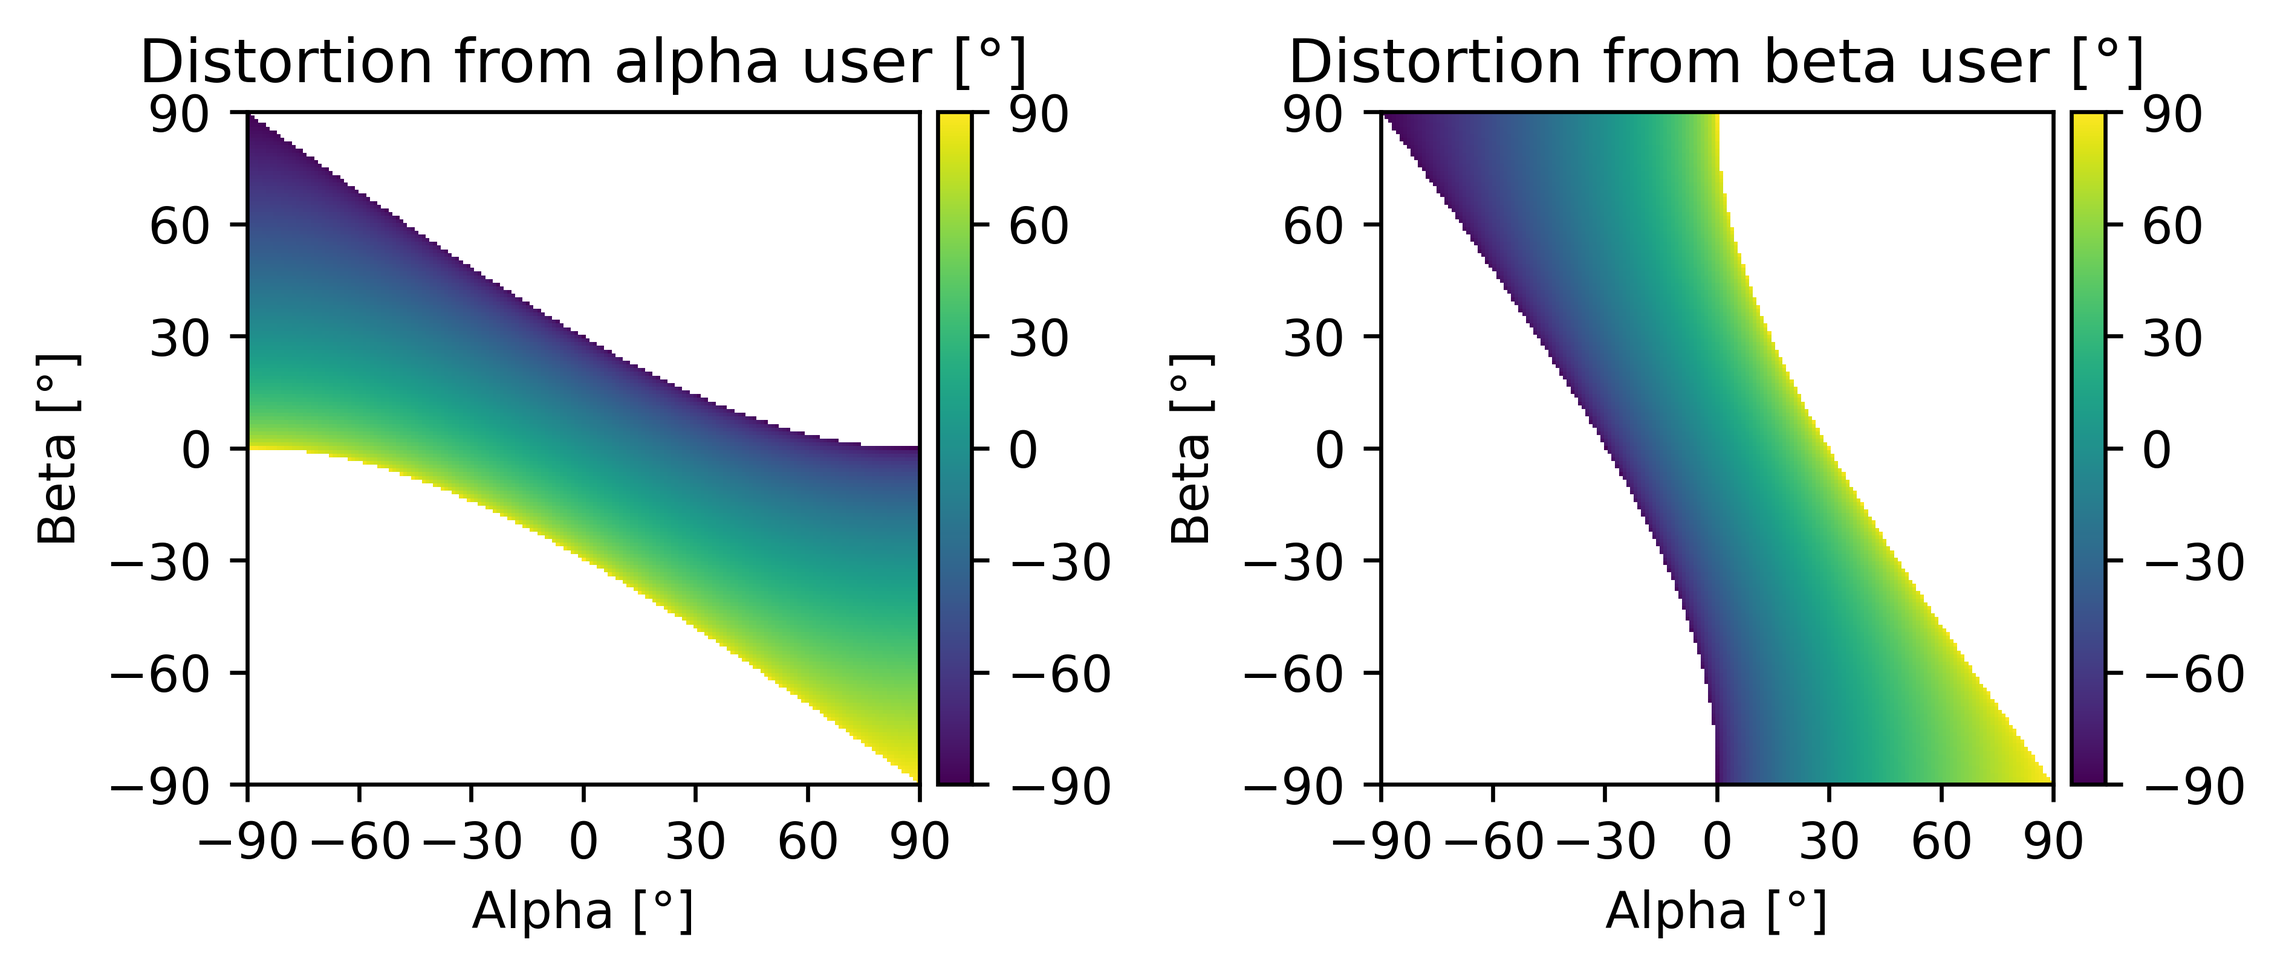
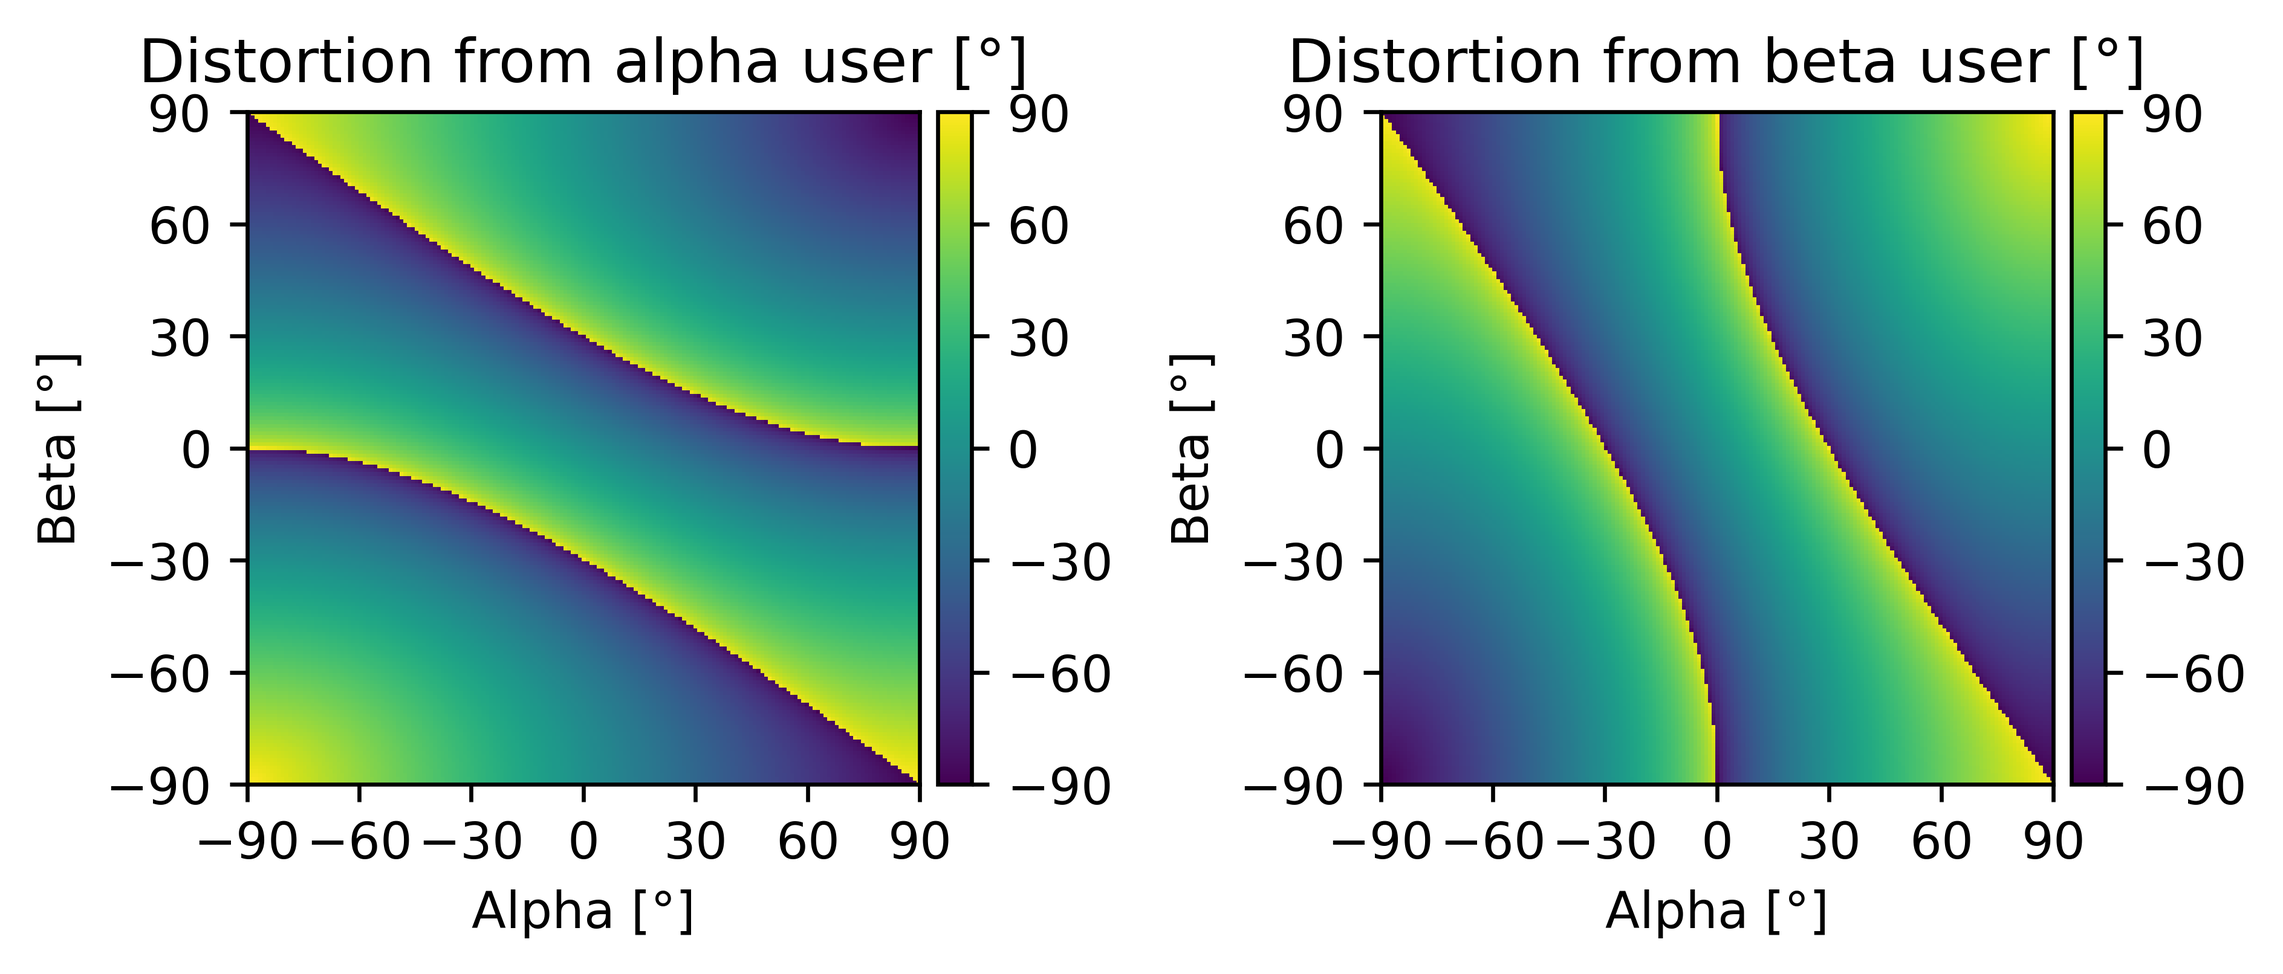
Expanded the distortion angles prediction for values where arcsin is undetermined by periodizing the input values

diff --git a/main_multiuser/main_shared_sc_psd_and_beampatterns.py b/main_multiuser/main_shared_sc_psd_and_beampatterns.py
@@ -9,6 +9,7 @@ sys.path.append(os.getcwd())
 
 import copy
 import time
+import itertools
 from datetime import datetime
 
 import matplotlib.pyplot as plt
@@ -28,11 +29,11 @@ from plot_settings import set_latex_plot_style
 if __name__ == '__main__':
     set_latex_plot_style()
     # Multiple users data
-    usr_angles_deg = np.array([-15, 15])
+    usr_angles_deg = np.array([-60, -90])
     usr_angles_rad = np.deg2rad(usr_angles_deg)
     usr_distances = [300, 300]
     usr_pos_tup = []
-    for usr_idx, usr_angle in enumerate(usr_angles_deg+90):
+    for usr_idx, usr_angle in enumerate(usr_angles_deg + 90):
         usr_pos_x = np.cos(np.deg2rad(usr_angle)) * usr_distances[usr_idx]
         usr_pos_y = np.sin(np.deg2rad(usr_angle)) * usr_distances[usr_idx]
         usr_pos_tup.append((usr_pos_x, usr_pos_y))
@@ -71,7 +72,6 @@ if __name__ == '__main__':
     sdr_n_snapshots = 10
     sdr_reroll_pos = False
 
-
     # Beampatterns
     plot_precoding_beampatterns = True
     beampattern_n_snapshots = 100
@@ -81,9 +81,9 @@ if __name__ == '__main__':
     radian_vals = np.radians(np.linspace(-90, 90, n_points + 1))
 
     # PSD at angle
-    plot_psd = True
+    plot_psd = False
     sel_psd_angle = 51
-    sel_ptx_idx = int(n_points / 180 * (sel_psd_angle+90))
+    sel_ptx_idx = int(n_points / 180 * (sel_psd_angle + 90))
     # PSD plotting params
     psd_nfft = 1024
     n_samp_per_seg = 256
@@ -160,9 +160,11 @@ if __name__ == '__main__':
                         rx_sig_clean_fd = my_tmp_miso_los_chan.propagate(in_sig_mat=clean_ofdm_symbol_fd, sum=False)
 
                         clean_nsc_ofdm_symb_fd = np.concatenate((rx_sig_clean_fd[:, -my_mod.n_sub_carr // 2:],
-                                                                 rx_sig_clean_fd[:, 1:(my_mod.n_sub_carr // 2) + 1]), axis=1)
+                                                                 rx_sig_clean_fd[:, 1:(my_mod.n_sub_carr // 2) + 1]),
+                                                                axis=1)
                         rx_nsc_ofdm_symb_fd = np.concatenate(
-                            (rx_sig_fd[:, -my_mod.n_sub_carr // 2:], rx_sig_fd[:, 1:(my_mod.n_sub_carr // 2) + 1]), axis=1)
+                            (rx_sig_fd[:, -my_mod.n_sub_carr // 2:], rx_sig_fd[:, 1:(my_mod.n_sub_carr // 2) + 1]),
+                            axis=1)
 
                         alpha_numerator_vec = np.multiply(rx_nsc_ofdm_symb_fd, np.conjugate(clean_nsc_ofdm_symb_fd))
                         alpha_denominator_vec = np.multiply(clean_nsc_ofdm_symb_fd,
@@ -334,9 +336,9 @@ if __name__ == '__main__':
                                 axis=1)
 
                             sc_oob_ofdm_distortion_sig = np.concatenate(
-                                (np.expand_dims(distortion_sig_fd[:, 0], axis=1), distortion_sig_fd[:, (my_mod.n_sub_carr // 2) + 1: -my_mod.n_sub_carr // 2]),
+                                (np.expand_dims(distortion_sig_fd[:, 0], axis=1),
+                                 distortion_sig_fd[:, (my_mod.n_sub_carr // 2) + 1: -my_mod.n_sub_carr // 2]),
                                 axis=1)
-
 
                             desired_sig_pow_arr[snap_idx] = np.sum(
                                 np.power(np.abs(np.sum(ak_vect * clean_sc_ofdm_symb_fd, axis=0)), 2))
@@ -357,7 +359,6 @@ if __name__ == '__main__':
                         desired_sig_pow_per_pt.append(np.sum(desired_sig_pow_arr))
                         distorted_sig_inband_pow_per_pt.append(np.sum(distortion_inband_sig_pow_arr))
                         distorted_sig_oob_pow_per_pt.append(np.sum(distortion_oob_sig_pow_arr))
-
 
                     rx_sig_at_sel_point_des_arr = np.concatenate(rx_sig_at_sel_point_des).ravel()
                     rx_sig_at_sel_point_dist_arr = np.concatenate(rx_sig_at_sel_point_dist).ravel()
@@ -388,7 +389,8 @@ if __name__ == '__main__':
                                                                                   return_onesided=False)
 
                     psd_sel_filename_str = "multiuser_shared_sc_psd_%s_%s_chan_ibo%d_npoints%d_nsnap%d_angle%d_nant%d" % (
-                        my_distortion, my_miso_chan, ibo_val_db, n_points, beampattern_n_snapshots, sel_psd_angle, n_ant_val)
+                        my_distortion, my_miso_chan, ibo_val_db, n_points, beampattern_n_snapshots, sel_psd_angle,
+                        n_ant_val)
 
                     # data_lst_sel = []
                     # tmp_lst_sel = [rx_des_at_sel_point_freq_arr, rx_des_at_sel_point_psd, rx_dist_at_sel_point_freq_arr,
@@ -396,15 +398,17 @@ if __name__ == '__main__':
                     # for arr1 in tmp_lst_sel:
                     #     data_lst_sel.append(arr1)
                     # utilities.save_to_csv(data_lst=data_lst_sel, filename=psd_sel_filename_str)
-#%%
+                    # %%
                     fig5, ax5 = plt.subplots(1, 1)
                     sorted_des_rx_at_sel_freq_arr, sorted_des_psd_at_sel_arr = zip(
                         *sorted(zip(rx_des_at_sel_point_freq_arr, rx_des_at_sel_point_psd)))
-                    ax5.plot(np.array(sorted_des_rx_at_sel_freq_arr), utilities.to_db(np.array(sorted_des_psd_at_sel_arr)),
+                    ax5.plot(np.array(sorted_des_rx_at_sel_freq_arr),
+                             utilities.to_db(np.array(sorted_des_psd_at_sel_arr)),
                              label="Desired")
                     sorted_dist_rx_at_sel_freq_arr, sorted_dist_psd_at_sel_arr = zip(
                         *sorted(zip(rx_dist_at_sel_point_freq_arr, rx_dist_at_sel_point_psd)))
-                    ax5.plot(np.array(sorted_dist_rx_at_sel_freq_arr), utilities.to_db(np.array(sorted_dist_psd_at_sel_arr)),
+                    ax5.plot(np.array(sorted_dist_rx_at_sel_freq_arr),
+                             utilities.to_db(np.array(sorted_dist_psd_at_sel_arr)),
                              label="Distorted")
 
                     ax5.set_title("Power spectral density at angle %d$\degree$" % sel_psd_angle)
@@ -418,13 +422,12 @@ if __name__ == '__main__':
                     # plt.cla()
                     # plt.close()
 
-
                     # %%
                     # plot beampatterns of desired and distortion components
                     fig1, ax1 = plt.subplots(1, 1, subplot_kw=dict(projection='polar'), figsize=(3.5, 3))
                     ax1.set_theta_zero_location("N")
                     plt.tight_layout()
-                    ax1.set_thetalim(-np.pi/2, np.pi/2)
+                    ax1.set_thetalim(-np.pi / 2, np.pi / 2)
                     ax1.set_xticks(np.pi / 180. * np.linspace(-90, 90, 13, endpoint=True))
                     ax1.yaxis.set_major_locator(MaxNLocator(5))
 
@@ -439,21 +442,34 @@ if __name__ == '__main__':
 
                     # plot reference angles/directions
                     (y_min, y_max) = ax1.get_ylim()
-                    ax1.vlines(np.deg2rad(usr_angles_deg), y_min, y_max, colors='k',
-                               linestyles='--')  # label="Users")
+                    ax1.vlines(np.deg2rad(usr_angles_deg), y_min, y_max, colors='k', linestyles='--',
+                               zorder=10)  # label="Users")
 
-                    dist_angles = ([(np.arcsin(2*np.sin(usr_angles_rad[0])-np.sin(usr_angles_rad[1]))), np.arcsin(2*np.sin(usr_angles_rad[1])-np.sin(usr_angles_rad[0]))])
-                    ax1.vlines(dist_angles, y_min, y_max, colors='k',
-                               linestyles=':', zorder=10)  # label="Expected distortion")
+                    dist_angles = []
+                    arcsin_arg_periodize = lambda val_a: val_a - 2.0 if val_a > 1.0 else (
+                        val_a + 2.0 if val_a < -1.0 else val_a)
+                    for usr_a_idx, usr_b_idx in itertools.combinations(range(n_users), 2):
+                        val_a = 2 * np.sin(usr_angles_rad[usr_a_idx]) - np.sin(usr_angles_rad[usr_b_idx])
+                        val_b = 2 * np.sin(usr_angles_rad[usr_b_idx]) - np.sin(usr_angles_rad[usr_a_idx])
+
+                        arcsin_a = arcsin_arg_periodize(val_a)
+                        arcsin_b = arcsin_arg_periodize(val_b)
+
+                        dist_angles.append(np.arcsin(arcsin_a))
+                        dist_angles.append(np.arcsin(arcsin_b))
+
+                    ax1.vlines(dist_angles, y_min, y_max, colors='k', linestyles=':',
+                               zorder=10)  # label="Expected distortion")
                     ax1.margins(0.0, 0.0)
                     ax1.set_title("Signal power at angle [dB]", pad=-15)
                     ax1.legend(title="Signal:", ncol=2, loc='lower center', borderaxespad=-2)
                     ax1.grid(True)
                     beampattern_filename_str = "multiuser_shared_sc_%s_%s_desired_and_distortion_signal_beampattern_ibo%d_angles%s_distances%s_npoints%d_nsnap%d_nant%s" % (
-                            my_distortion, my_miso_chan, ibo_val_db, '_'.join([str(val) for val in usr_angles_deg]),
-                            '_'.join([str(val) for val in usr_distances]), n_points, beampattern_n_snapshots,
-                            '_'.join([str(val) for val in [n_ant_val]]))
-                    plt.savefig("../figs/multiuser/distortion_directions_eval/%s.png" %(beampattern_filename_str), dpi=600, bbox_inches='tight')
+                        my_distortion, my_miso_chan, ibo_val_db, '_'.join([str(val) for val in usr_angles_deg]),
+                        '_'.join([str(val) for val in usr_distances]), n_points, beampattern_n_snapshots,
+                        '_'.join([str(val) for val in [n_ant_val]]))
+                    plt.savefig("../figs/multiuser/distortion_directions_eval/%s.png" % (beampattern_filename_str),
+                                dpi=600, bbox_inches='tight')
                     plt.show()
                     # plt.cla()
                     # plt.close()

diff --git a/main_multiuser/main_separate_sc_per_usr_psd_and_beampatterns.py b/main_multiuser/main_separate_sc_per_usr_psd_and_beampatterns.py
@@ -1,5 +1,6 @@
 # antenna array evaluation
 # %%
+import itertools
 import os
 import sys
 
@@ -32,7 +33,7 @@ if __name__ == '__main__':
     usr_angles_rad = np.deg2rad(usr_angles_deg)
     usr_distances = [300, 300]
     usr_pos_tup = []
-    for usr_idx, usr_angle in enumerate(usr_angles_deg+90):
+    for usr_idx, usr_angle in enumerate(usr_angles_deg + 90):
         usr_pos_x = np.cos(np.deg2rad(usr_angle)) * usr_distances[usr_idx]
         usr_pos_y = np.sin(np.deg2rad(usr_angle)) * usr_distances[usr_idx]
         usr_pos_tup.append((usr_pos_x, usr_pos_y))
@@ -71,7 +72,6 @@ if __name__ == '__main__':
     sdr_n_snapshots = 10
     sdr_reroll_pos = False
 
-
     # Beampatterns
     plot_precoding_beampatterns = True
     beampattern_n_snapshots = 100
@@ -81,9 +81,9 @@ if __name__ == '__main__':
     radian_vals = np.radians(np.linspace(-90, 90, n_points + 1))
 
     # PSD at angle
-    plot_psd = True
+    plot_psd = False
     sel_psd_angle = -51
-    sel_ptx_idx = int(n_points / 180 * (sel_psd_angle+90))
+    sel_ptx_idx = int(n_points / 180 * (sel_psd_angle + 90))
     # PSD plotting params
     psd_nfft = 1024
     n_samp_per_seg = 256
@@ -158,7 +158,7 @@ if __name__ == '__main__':
                     # ax1.grid()
                     # plt.show()
 
-                    #%%
+                    # %%
                     start_time = time.time()
                     bit_rng = np.random.default_rng(4321)
                     n_ofdm_symb = 1e3
@@ -178,9 +178,11 @@ if __name__ == '__main__':
                         rx_sig_clean_fd = my_tmp_miso_los_chan.propagate(in_sig_mat=clean_ofdm_symbol_fd, sum=False)
 
                         clean_nsc_ofdm_symb_fd = np.concatenate((rx_sig_clean_fd[:, -my_mod.n_sub_carr // 2:],
-                                                                 rx_sig_clean_fd[:, 1:(my_mod.n_sub_carr // 2) + 1]), axis=1)
+                                                                 rx_sig_clean_fd[:, 1:(my_mod.n_sub_carr // 2) + 1]),
+                                                                axis=1)
                         rx_nsc_ofdm_symb_fd = np.concatenate(
-                            (rx_sig_fd[:, -my_mod.n_sub_carr // 2:], rx_sig_fd[:, 1:(my_mod.n_sub_carr // 2) + 1]), axis=1)
+                            (rx_sig_fd[:, -my_mod.n_sub_carr // 2:], rx_sig_fd[:, 1:(my_mod.n_sub_carr // 2) + 1]),
+                            axis=1)
 
                         alpha_numerator_vec = np.multiply(rx_nsc_ofdm_symb_fd, np.conjugate(clean_nsc_ofdm_symb_fd))
                         alpha_denominator_vec = np.multiply(clean_nsc_ofdm_symb_fd,
@@ -352,7 +354,8 @@ if __name__ == '__main__':
                                 axis=1)
 
                             sc_oob_ofdm_distortion_sig = np.concatenate(
-                                (np.expand_dims(distortion_sig_fd[:, 0], axis=1), distortion_sig_fd[:, (my_mod.n_sub_carr // 2) + 1: -my_mod.n_sub_carr // 2]),
+                                (np.expand_dims(distortion_sig_fd[:, 0], axis=1),
+                                 distortion_sig_fd[:, (my_mod.n_sub_carr // 2) + 1: -my_mod.n_sub_carr // 2]),
                                 axis=1)
 
                             desired_sig_pow_arr[snap_idx] = np.sum(
@@ -374,7 +377,6 @@ if __name__ == '__main__':
                         desired_sig_pow_per_pt.append(np.sum(desired_sig_pow_arr))
                         distorted_sig_inband_pow_per_pt.append(np.sum(distortion_inband_sig_pow_arr))
                         distorted_sig_oob_pow_per_pt.append(np.sum(distortion_oob_sig_pow_arr))
-
 
                     rx_sig_at_sel_point_des_arr = np.concatenate(rx_sig_at_sel_point_des).ravel()
                     rx_sig_at_sel_point_dist_arr = np.concatenate(rx_sig_at_sel_point_dist).ravel()
@@ -405,7 +407,8 @@ if __name__ == '__main__':
                                                                                   return_onesided=False)
 
                     psd_sel_filename_str = "multiuser_sep_sc_psd_%s_%s_chan_ibo%d_npoints%d_nsnap%d_angle%d_nant%d" % (
-                        my_distortion, my_miso_chan, ibo_val_db, n_points, beampattern_n_snapshots, sel_psd_angle, n_ant_val)
+                        my_distortion, my_miso_chan, ibo_val_db, n_points, beampattern_n_snapshots, sel_psd_angle,
+                        n_ant_val)
 
                     # data_lst_sel = []
                     # tmp_lst_sel = [rx_des_at_sel_point_freq_arr, rx_des_at_sel_point_psd, rx_dist_at_sel_point_freq_arr,
@@ -413,15 +416,17 @@ if __name__ == '__main__':
                     # for arr1 in tmp_lst_sel:
                     #     data_lst_sel.append(arr1)
                     # utilities.save_to_csv(data_lst=data_lst_sel, filename=psd_sel_filename_str)
-#%%
+                    # %%
                     fig5, ax5 = plt.subplots(1, 1)
                     sorted_des_rx_at_sel_freq_arr, sorted_des_psd_at_sel_arr = zip(
                         *sorted(zip(rx_des_at_sel_point_freq_arr, rx_des_at_sel_point_psd)))
-                    ax5.plot(np.array(sorted_des_rx_at_sel_freq_arr), utilities.to_db(np.array(sorted_des_psd_at_sel_arr)),
+                    ax5.plot(np.array(sorted_des_rx_at_sel_freq_arr),
+                             utilities.to_db(np.array(sorted_des_psd_at_sel_arr)),
                              label="Desired")
                     sorted_dist_rx_at_sel_freq_arr, sorted_dist_psd_at_sel_arr = zip(
                         *sorted(zip(rx_dist_at_sel_point_freq_arr, rx_dist_at_sel_point_psd)))
-                    ax5.plot(np.array(sorted_dist_rx_at_sel_freq_arr), utilities.to_db(np.array(sorted_dist_psd_at_sel_arr)),
+                    ax5.plot(np.array(sorted_dist_rx_at_sel_freq_arr),
+                             utilities.to_db(np.array(sorted_dist_psd_at_sel_arr)),
                              label="Distorted")
 
                     ax5.set_title("Power spectral density at angle %d$\degree$" % sel_psd_angle)
@@ -435,13 +440,12 @@ if __name__ == '__main__':
                     # plt.cla()
                     # plt.close()
 
-
                     # %%
                     # plot beampatterns of desired and distortion components
                     fig1, ax1 = plt.subplots(1, 1, subplot_kw=dict(projection='polar'), figsize=(3.5, 3))
                     ax1.set_theta_zero_location("N")
                     plt.tight_layout()
-                    ax1.set_thetalim(-np.pi/2, np.pi/2)
+                    ax1.set_thetalim(-np.pi / 2, np.pi / 2)
                     ax1.set_xticks(np.pi / 180. * np.linspace(-90, 90, 13, endpoint=True))
                     ax1.yaxis.set_major_locator(MaxNLocator(5))
 
@@ -456,21 +460,36 @@ if __name__ == '__main__':
 
                     # plot reference angles/directions
                     (y_min, y_max) = ax1.get_ylim()
-                    ax1.vlines(np.deg2rad(usr_angles_deg), y_min, y_max, colors='k', linestyles='--', zorder=10)  # label="Users")
+                    ax1.vlines(np.deg2rad(usr_angles_deg), y_min, y_max, colors='k', linestyles='--',
+                               zorder=10)  # label="Users")
 
-                    dist_angles = ([(np.arcsin(2*np.sin(usr_angles_rad[0])-np.sin(usr_angles_rad[1]))), np.arcsin(2*np.sin(usr_angles_rad[1])-np.sin(usr_angles_rad[0]))])
-                    ax1.vlines(dist_angles, y_min, y_max, colors='k', linestyles=':', zorder=10)  # label="Expected distortion")
+                    dist_angles = []
+                    arcsin_arg_periodize = lambda val_a: val_a - 2.0 if val_a > 1.0 else (
+                        val_a + 2.0 if val_a < -1.0 else val_a)
+                    for usr_a_idx, usr_b_idx in itertools.combinations(range(n_users), 2):
+                        val_a = 2 * np.sin(usr_angles_rad[usr_a_idx]) - np.sin(usr_angles_rad[usr_b_idx])
+                        val_b = 2 * np.sin(usr_angles_rad[usr_b_idx]) - np.sin(usr_angles_rad[usr_a_idx])
+
+                        arcsin_a = arcsin_arg_periodize(val_a)
+                        arcsin_b = arcsin_arg_periodize(val_b)
+
+                        dist_angles.append(np.arcsin(arcsin_a))
+                        dist_angles.append(np.arcsin(arcsin_b))
+
+                    ax1.vlines(dist_angles, y_min, y_max, colors='k', linestyles=':',
+                               zorder=10)  # label="Expected distortion")
 
                     ax1.margins(0.0, 0.0)
                     ax1.set_title("Signal power at angle [dB]", pad=-15)
                     ax1.legend(title="Signal:", ncol=2, loc='lower center', borderaxespad=-2)
                     ax1.grid(True)
                     beampattern_filename_str = "multiuser_sep_sc_%s_%s_desired_and_distortion_signal_beampattern_ibo%d_angles%s_distances%s_npoints%d_nsnap%d_nant%s" % (
-                            my_distortion, my_miso_chan, ibo_val_db, '_'.join([str(val) for val in usr_angles_deg]),
-                            '_'.join([str(val) for val in usr_distances]), n_points, beampattern_n_snapshots,
-                            '_'.join([str(val) for val in [n_ant_val]]))
+                        my_distortion, my_miso_chan, ibo_val_db, '_'.join([str(val) for val in usr_angles_deg]),
+                        '_'.join([str(val) for val in usr_distances]), n_points, beampattern_n_snapshots,
+                        '_'.join([str(val) for val in [n_ant_val]]))
                     plt.savefig(
-                        "../figs/multiuser/distortion_directions_eval/%s.png" % beampattern_filename_str, dpi=600, bbox_inches='tight')
+                        "../figs/multiuser/distortion_directions_eval/%s.png" % beampattern_filename_str, dpi=600,
+                        bbox_inches='tight')
                     plt.show()
                     # plt.cla()
                     # plt.close()

diff --git a/main_multiuser/distortion_angles_prediction.py b/main_multiuser/distortion_angles_prediction.py
@@ -10,10 +10,12 @@ m_alpha, m_beta = np.meshgrid(alpha, beta)
 dist_alpha = np.zeros((n_samples, n_samples))
 dist_beta = np.zeros((n_samples, n_samples))
 
+arcsin_arg_periodize = lambda val_a: val_a - 2.0 if val_a > 1.0 else (val_a + 2.0 if val_a < -1.0 else val_a)
+
 for alpha_idx, alpha_val in enumerate(alpha):
     for beta_idx, beta_val in enumerate(beta):
-        dist_alpha[alpha_idx, beta_idx] = np.rad2deg(np.arcsin(2*np.sin(np.deg2rad(alpha_val)) - np.sin(np.deg2rad(beta_val))))
-        dist_beta[alpha_idx, beta_idx] = np.rad2deg(np.arcsin(2*np.sin(np.deg2rad(beta_val)) - np.sin(np.deg2rad(alpha_val))))
+        dist_alpha[alpha_idx, beta_idx] = np.rad2deg(np.arcsin(arcsin_arg_periodize(2*np.sin(np.deg2rad(alpha_val)) - np.sin(np.deg2rad(beta_val)))))
+        dist_beta[alpha_idx, beta_idx] = np.rad2deg(np.arcsin(arcsin_arg_periodize(2*np.sin(np.deg2rad(beta_val)) - np.sin(np.deg2rad(alpha_val)))))
 
 # # replace NaN
 # dist_alpha = np.nan_to_num(dist_alpha, nan=-100)
